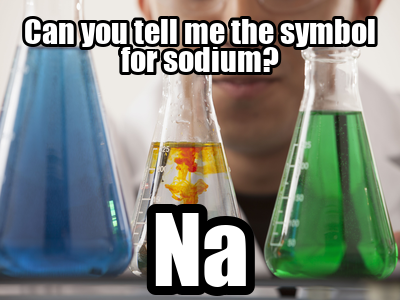
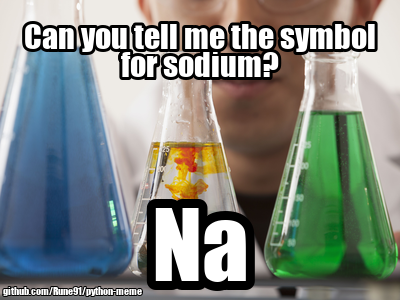
code for optional watermark

Changed region(s): [[0.03, 0.03, 0.96, 0.27], [0.0, 0.66, 0.63, 0.99], [0.45, 0.78, 0.48, 0.81]]

diff --git a/meme_creator.py b/meme_creator.py
@@ -13,13 +13,14 @@ class MemeCreator:
         self.WIDTH = 400
         self.HEIGHT = 300
         self.X_MARGIN = int(self.WIDTH / 30)
-        self.Y_MARGIN = int(self.HEIGHT / 20)
+        self.Y_MARGIN = int(self.HEIGHT / 15)
         self.HEIGHT_COEFF = 1.1
         self.font_color = (255,255,255)
         self.outline_color = (0,0,0)
         self.font_name = "unicode-impact.ttf"
         if not os.path.exists(self.font_name):
             raise Exception(f"font file {self.font_name} missing from directory")
+        self.watermark = "github.com/Rune91/python-meme"
 
     def search_image(self, keyword):
         """returns a PIL image found by searching duckduckgo for keywords"""
@@ -81,13 +82,25 @@ class MemeCreator:
             else:
                 return self.get_image_url("question mark")
             
-    def draw_text(self, text, img, top):
+    def draw_watermark(self, image):
+        """Adds the watermark text to bottom left. Returns updated image"""
+        font = PIL.ImageFont.truetype(self.font_name, 10)
+        draw = PIL.ImageDraw.Draw(image)
+        draw.text((2, self.HEIGHT-15), self.watermark,
+                  font=font,
+                  fill=self.font_color,
+                  stroke_fill=self.outline_color,
+                  stroke_width=1)
+        
+        return image
+            
+    def draw_text(self, text, image, top):
         """draws text on the image. top (True/False) decides top or bottom.
         returns the new image"""
-        if not text: return img
+        if not text: return image
         font_size = self.get_font_size(text)
         font = PIL.ImageFont.truetype(self.font_name, font_size)
-        draw = PIL.ImageDraw.Draw(img)
+        draw = PIL.ImageDraw.Draw(image)
         outline_width = int(font_size / 10)
         lines = []
         words = text.split(" ")
@@ -118,7 +131,7 @@ class MemeCreator:
                           stroke_fill=self.outline_color,
                           stroke_width=outline_width)
             y += int(dy*h*self.HEIGHT_COEFF)
-        return img
+        return image
 
     def get_font_size(self, text):
         """returns the font size needed to draw this text on the image"""
@@ -138,6 +151,7 @@ class MemeCreator:
         image = image.resize((self.WIDTH, self.HEIGHT), PIL.Image.LANCZOS)
         image = self.draw_text(text_top, image, True)
         image = self.draw_text(text_bottom, image, False)
+        image = self.draw_watermark(image)
         return image
 
 

diff --git a/README.md b/README.md
@@ -25,3 +25,12 @@ meme.save("my_meme.png", "PNG")
 3. Save your code file to the same folder and run. The following image is produced:
 
 ![Sample meme](my_meme.png)
+
+4. Usage parameters (such as watermark, text color, image size, etc) may be set manually:
+
+```
+meme_creator.WIDTH = 600
+meme_creator.HEIGHT = 800
+meme_creator.font_color = (255, 0, 0)
+meme_creator.watermark = "I would like to thank myself for believing in me"
+```
